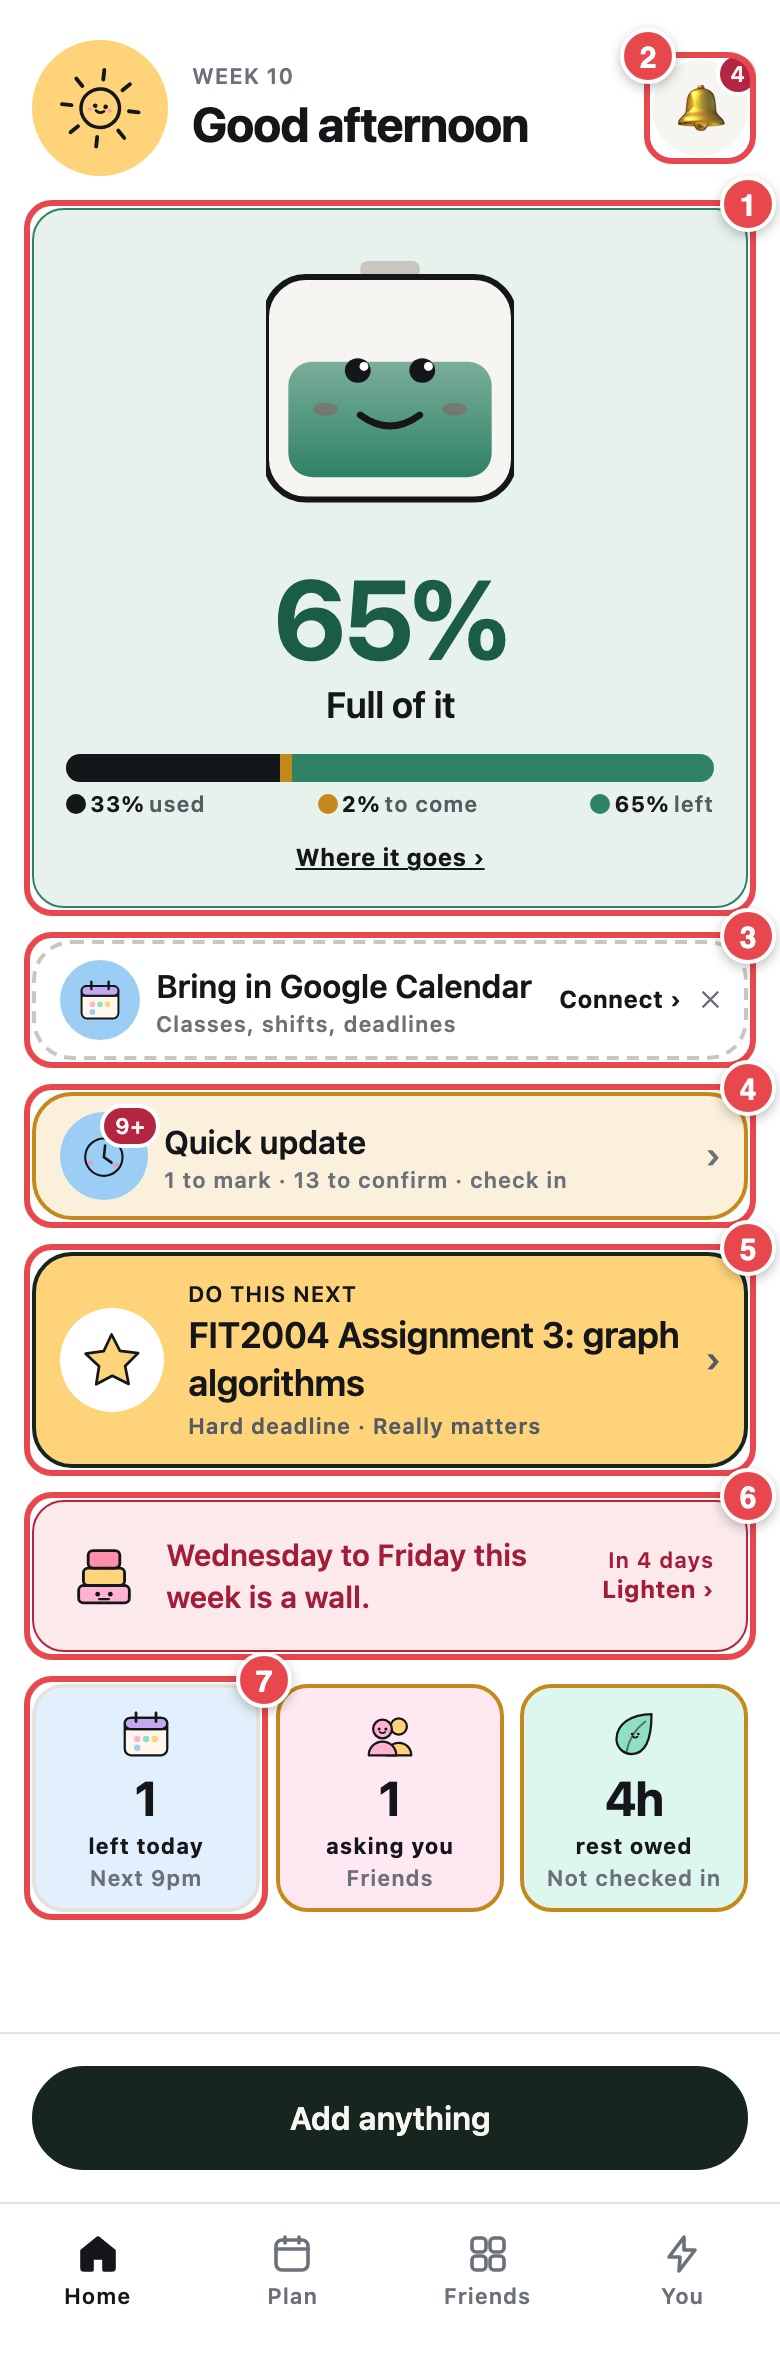
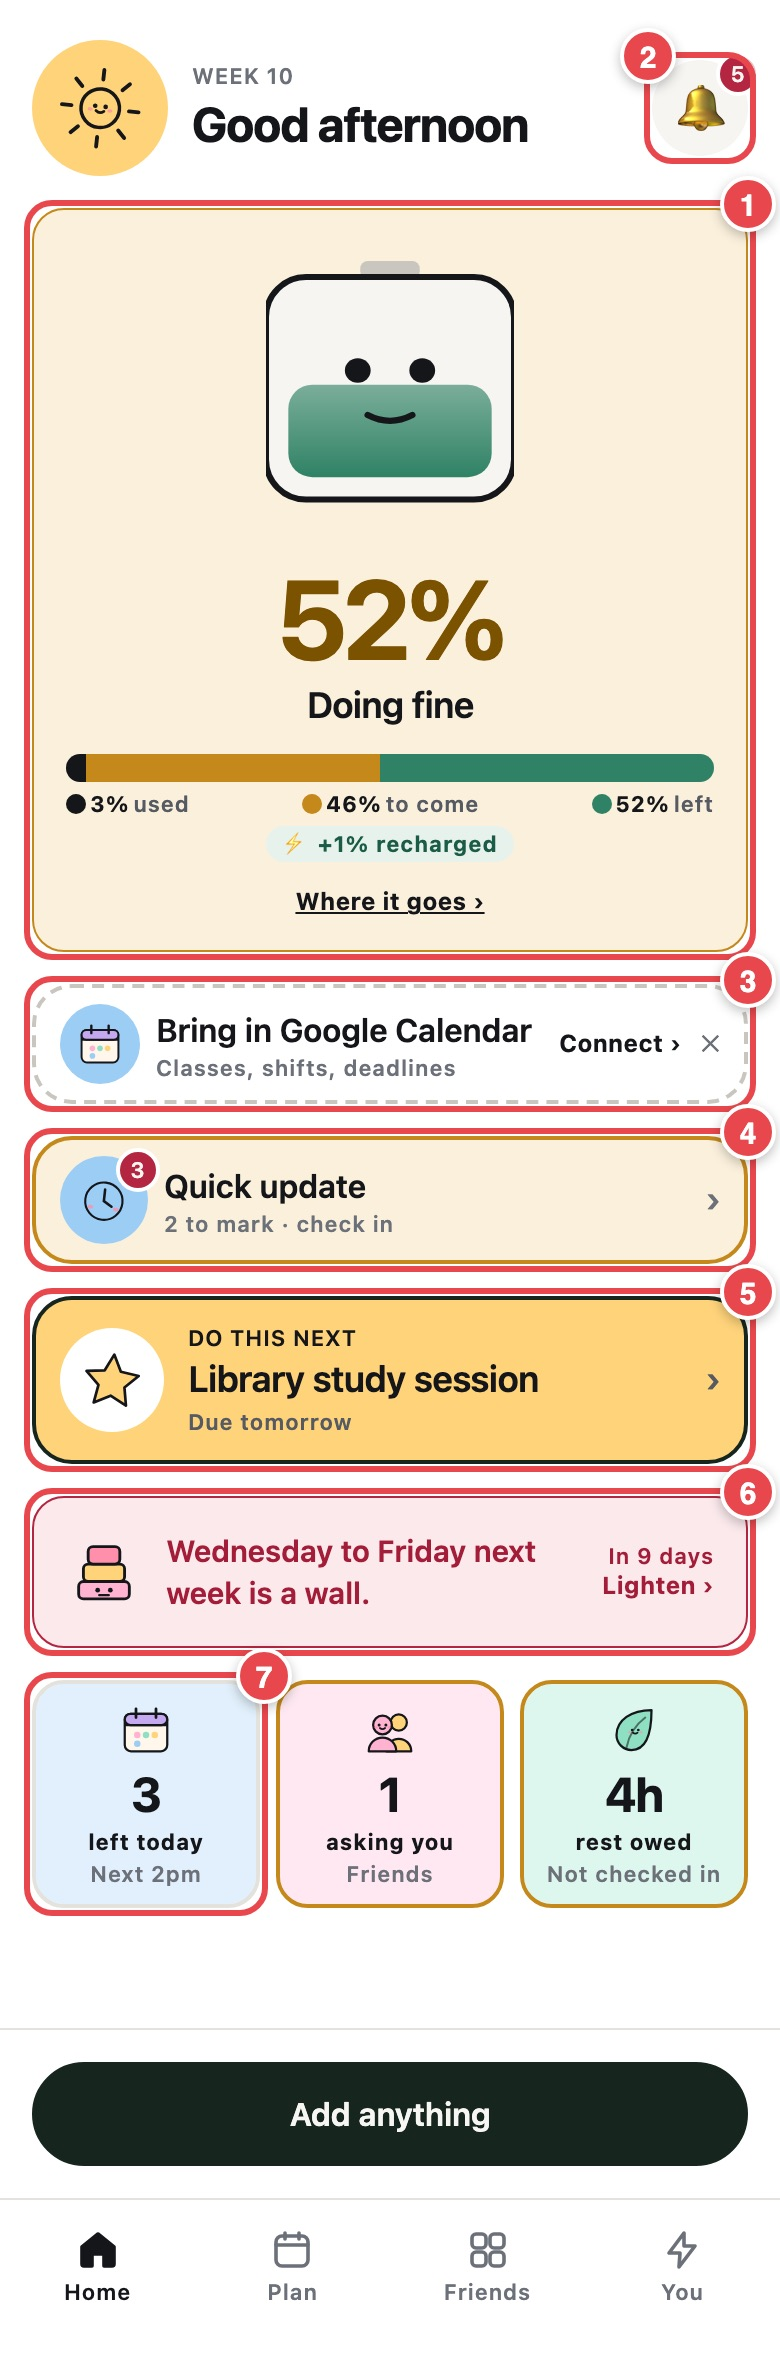
Build Phase V13

diff --git a/ballast/src/lib/notify.ts b/ballast/src/lib/notify.ts
@@ -17,7 +17,7 @@ import { remaining } from './prep';
 import { findCollision, leadLabel } from './forecast';
 import { worthANudge } from './circle';
 import { firstName } from './people';
-import type { CircleMember, GroupInvite, Item, MoodCheckIn, Notice, ReceivedInvite } from './types';
+import type { CircleMember, GroupInvite, Invite, Item, MoodCheckIn, Notice, ReceivedInvite } from './types';
 import { formatHour } from './schedule';
 import type { PendingRequestDTO } from '@shared/contract';
 
@@ -39,7 +39,7 @@ export function quickUpdate(state: { items: Item[]; today: string; moods: MoodCh
   return { toMark: due, auto, checkIn: !checkedIn, count: due.length + auto.length + (checkedIn ? 0 : 1) };
 }
 
-export type BellKind = 'friend' | 'group' | 'plan' | 'update' | 'calendar' | 'due' | 'wall' | 'nudge' | 'rest' | 'low' | 'event';
+export type BellKind = 'friend' | 'group' | 'plan' | 'ready' | 'update' | 'calendar' | 'due' | 'wall' | 'nudge' | 'rest' | 'low' | 'event';
 
 export interface Bell {
   id: string;
@@ -60,6 +60,8 @@ export interface BellState {
   requests: PendingRequestDTO[];
   groupInvites: GroupInvite[];
   received: ReceivedInvite[];
+  /** Plans you sent. */
+  invites?: Invite[];
   circle: CircleMember[];
   notices: Notice[];
   restOwed: number;
@@ -84,6 +86,20 @@ export function bells(state: BellState): Bell[] {
     out.push({
       id: `plan:${plan.id}`, kind: 'plan', emoji: '🎉', title: `${plan.from} invited you to ${plan.title.split(/ with | · /)[0]}`,
       body: `${formatShort(plan.date)} · ${formatHour(plan.startHour)}`, ref: plan.id, at: plan.at, to: '/plans',
+    });
+  }
+
+  // A plan you sent that everyone has answered, someone is coming to, and is
+  // not in your week yet. Read from the plan itself, so it is still here when
+  // the answers came in while the app was closed.
+  for (const plan of (state.invites ?? []).filter((i) => !i.scheduled && i.date >= today)) {
+    const answers = plan.answers ?? {};
+    const yes = plan.people.filter((id) => answers[id] === 'yes').length;
+    if (!yes || plan.people.some((id) => !answers[id])) continue;
+    out.push({
+      id: `ready:${plan.id}:${yes}`, kind: 'ready', emoji: '🎉',
+      title: `${yes === plan.people.length ? 'Everyone’s in' : `${yes} of ${plan.people.length} in`} for ${plan.title.split(/ with | · /)[0]}`,
+      body: `${formatShort(plan.date)} · ${formatHour(plan.startHour)} · Add it to your week`, to: '/plans?tab=confirmed',
     });
   }
 

diff --git a/ballast/scripts/seed-judges.ts b/ballast/scripts/seed-judges.ts
@@ -17,7 +17,7 @@
  */
 import { readFileSync } from 'node:fs';
 import { join } from 'node:path';
-import { addDays, isSameWeek, startOfWeek } from '@/lib/dates';
+import { addDays, dayIndex, isSameWeek, startOfWeek } from '@/lib/dates';
 import { classItems, type ClassSlot } from '@/lib/timetable';
 import { bandFor, DEFAULT_CEILINGS, DEFAULT_OVERALL_CEILING, overallOf } from '@/lib/load';
 import { countedOnce } from '@/lib/prep';
@@ -316,8 +316,14 @@ function weekOf(p: Persona): { items: Item[]; modules: Module[]; moods: MoodChec
   // Every day lived in: a few of the ordinary things around the classes, and
   // study sessions booked for each piece of work - how a planned week looks.
   const days = Array.from({ length: 28 }, (_, i) => addDays(W0, i));
-  items.push(...fillDays(items, days, p.key));
-  items.push(...bookSittings(items, TODAY, now.getHours() + now.getMinutes() / 60, p.key));
+  // Tuesday and Thursday evenings stay clear of the filler and the study
+  // sessions, for everyone - so friends planning together find real evenings
+  // when they are all free, the way a group of friends would keep one.
+  const kept = days.filter((d) => dayIndex(d) === 1 || dayIndex(d) === 3).map((d) => ({
+    id: `hold-${d}`, title: 'Evening kept free', bucket: 'time', hours: 3.5, dread: 1, commitment: 'self', date: d, startHour: 19,
+  }) as Item);
+  items.push(...fillDays([...items, ...kept], days, p.key));
+  items.push(...bookSittings([...items, ...kept], TODAY, now.getHours() + now.getMinutes() / 60, p.key));
   const moods: MoodCheckIn[] = p.moods.map((m, i) => ({
     id: `${p.key}-mood-${i}`, date: addDays(TODAY, -m.daysAgo), at: `${m.daysAgo === 1 ? 'Yesterday' : `${m.daysAgo} days ago`} 9:00 PM`,
     quadrant: m.quadrant, tags: m.tags,

diff --git a/ballast/app/_layout.tsx b/ballast/app/_layout.tsx
@@ -12,6 +12,8 @@ import { Platform, View } from 'react-native';
 import AsyncStorage from '@react-native-async-storage/async-storage';
 import { keepTokenIn } from '@/lib/api';
 import { Mascot } from '@/components';
+import { useHydrated } from '@/hooks/useHydrated';
+import { isClient } from '@/state/storage';
 
 /**
  * Root layout.
@@ -43,6 +45,15 @@ export default function RootLayout() {
   usePopups();
   useCalendarSync();
   const waiting = useWaitingForSession();
+  /*
+   * Every page is prerendered from the sample week, because the build has no
+   * account to render. Until this device's own state is read back, the
+   * battery covers it - otherwise the first thing anyone opening the app saw
+   * was a stranger's Monday, for the moment before their own week (or the
+   * sign-in screen) replaced it.
+   */
+  const hydrated = useHydrated();
+  const cover = !isClient || !hydrated || waiting;
 
   return (
     <SafeAreaProvider>
@@ -57,8 +68,8 @@ export default function RootLayout() {
       >
         <Stack.Screen name="(tabs)" options={{ animation: 'default' }} />
       </Stack>
-      {/* Coming back signed in: a moment with the battery while the session is confirmed. */}
-      {waiting ? (
+      {/* Opening, or coming back signed in: a moment with the battery while your own state loads. */}
+      {cover ? (
         <View className="absolute inset-0 items-center justify-center bg-page">
           <Mascot charge={72} loadPercent={28} size={120} />
         </View>

diff --git a/ballast/src/features/notify/useBells.ts b/ballast/src/features/notify/useBells.ts
@@ -9,15 +9,15 @@ import { useItemsWithLogs, useReading } from '@/state/selectors';
 import { useCalendar } from '@/features/calendar/useCalendar';
 
 export function useBells() {
-  const { items, today, moods, sleepHours, requests, groupInvites, received, circle, notices, recovery, seenNotices } = useStore();
+  const { items, today, moods, sleepHours, requests, groupInvites, received, invites, circle, notices, recovery, seenNotices } = useStore();
   const withLogs = useItemsWithLogs();
   const reading = useReading();
   const { picture, expired } = useCalendar();
   const fresh = picture.fresh.length;
   const update = useMemo(() => quickUpdate({ items, today, moods, sleepHours }), [items, today, moods, sleepHours]);
   const list = useMemo(() => bells({
-    items: withLogs, today, requests, groupInvites, received, circle, notices,
+    items: withLogs, today, requests, groupInvites, received, invites, circle, notices,
     restOwed: restOwedFrom(recovery), charge: reading.charge, update, calendar: { fresh, expired },
-  }), [withLogs, today, requests, groupInvites, received, circle, notices, recovery, reading.charge, update, fresh, expired]);
+  }), [withLogs, today, requests, groupInvites, received, invites, circle, notices, recovery, reading.charge, update, fresh, expired]);
   return { list, update, unseen: unseen(list, seenNotices), calendar: picture };
 }

diff --git a/ballast/src/lib/priority.ts b/ballast/src/lib/priority.ts
@@ -74,6 +74,9 @@ const IMPORTANCE_FACTOR = { 1: 0.8, 2: 1, 3: 1.35 } as const;
  */
 const WANT_FACTOR = [1, 0.9, 0.95, 1, 1.08, 1.15] as const;
 
+/** How much a self-imposed routine counts against real work. */
+const ROUTINE_FACTOR = 0.2;
+
 /** Not being able to finish it in the time left is the loudest signal there is. */
 const AT_RISK_BONUS = 40;
 
@@ -108,6 +111,10 @@ export function rank(
    */
   const score =
     weight *
+      // A routine of your own - the gym, breakfast, tidying - happens at its
+      // time; it is not something to start first. Only work, deadlines and
+      // promises to other people should be able to top this list.
+      (!owing && item.commitment === 'self' && item.deadline === undefined ? ROUTINE_FACTOR : 1) *
       urgencyFactor(days) ** weights.urgency *
       COMMITMENT_FACTOR[item.commitment] *
       IMPORTANCE_FACTOR[item.importance ?? 2] ** weights.importance *

diff --git a/ballast/src/features/home/CalmMode.tsx b/ballast/src/features/home/CalmMode.tsx
@@ -20,7 +20,7 @@ export interface CalmModeProps {
   percent: number;
   today: string;
   /** The one thing. The app has already made the call so the student does not have to. */
-  focus: Item;
+  focus?: Item;
   onHide: () => void;
   onShowEverything: () => void;
   /**
@@ -61,7 +61,7 @@ export function CalmMode({ percent, today, focus, onHide, onShowEverything, back
 
         {/* One sentence. Not a list, not a chart, not a prompt to log anything. */}
         <Text variant="heading" weight="regular" className="pt-4">
-          Do the {focus.title.toLowerCase()}. Everything else on today's list can wait until Friday and
+          {focus ? `Do the ${focus.title.toLowerCase()}. ` : 'Rest tonight. '}Everything else on today's list can wait until Friday and
           nothing bad will happen.
         </Text>
       </Stack>

diff --git a/ballast/app/notifications.tsx b/ballast/app/notifications.tsx
@@ -120,6 +120,7 @@ const PICTURE: Record<Bell['kind'], { sticker: StickerName; wash: string }> = {
   friend:   { sticker: 'wave',       wash: color.decor.candy },
   group:    { sticker: 'people',     wash: color.decor.lilac },
   plan:     { sticker: 'heart',      wash: color.decor.blush },
+  ready:    { sticker: 'star',       wash: color.band.steady.wash },
   update:   { sticker: 'clock',      wash: color.decor.sky },
   calendar: { sticker: 'calendar',   wash: color.decor.sky },
   due:      { sticker: 'assignment', wash: color.decor.lemon },

diff --git a/README.md b/README.md
@@ -32,17 +32,19 @@ Ballast installs straight from the link. It gets a home-screen icon and opens fu
 
 ## 🔑 Judge accounts
 
-Five real accounts on the live app. They're Monash Malaysia students with a real timetable, coursework, shifts, moods and plans, and **they're all friends with each other**. Sign in as two of them on two phones (or a phone and a laptop), and invitations, answers and batteries pass between them within a minute.
+Five real accounts on the live app. They're Monash Malaysia students with a real timetable, coursework, shifts, moods and plans, and every day is planned: study sessions booked for each assignment, plus lunches, the gym, society meetings and downtime. **They're all friends with each other.** Sign in as two of them on two phones (or a phone and a laptop), and invitations, answers and batteries pass between them within a minute.
+
+*Battery numbers below are from Mon 12 Oct. They move as the week goes, just as a real week would.*
 
 **Password for all five: `BallastDemo2026`**
 
 | Student | Email | Their week | Try this as them |
 |---|---|---|---|
-| 💻 **Aisyah Rahman**<br>Computer Science, Y2 | `aisyah.ballast@example.com` | 65% this week, but **next week is a wall**: two assignments and a birthday dinner in 3 days | Tap the red **wall** warning, then **Lighten next week**. Answer Daniel's **Mamak supper** invite. Add the confirmed **Study session** to your week. |
-| 🧪 **Priya Nair**<br>Biomedical Science, Y2 | `priya.ballast@example.com` | **28%, running on empty**: lab report due, 5.8h of sleep, heavy for 6 days | **Check in**, then open **Recovery** to book something that helps. Her friends get a nudge to check on her. |
-| 📊 **Daniel Lim**<br>Business, Y3 | `daniel.ballast@example.com` | 84%, steady, barista shifts | Open **Plans → Sent**: see who has said yes to his Mamak supper. Plan an evening with **Plan something together**. |
-| 🏗 **Hafiz Ismail**<br>Civil Engineering, Y3 | `hafiz.ballast@example.com` | 61%, design project crunch | His **birthday dinner** plan has every kind of answer: yes, no, and still waiting. |
-| 🎨 **Mei Ling Tan**<br>Communication Design, Y1 | `meiling.ballast@example.com` | 91%, the calm one | Answer the **Badminton club** group invitation and Priya's **Movie night** from the 🔔 bell. |
+| 💻 **Aisyah Rahman**<br>Computer Science, Y2 | `aisyah.ballast@example.com` | 52% this week, but **next week is a wall**: two assignments and a birthday dinner, Wednesday to Friday | Tap the red **wall** warning, then **Lighten next week**. Answer Daniel's **Mamak supper** invite. Add the confirmed **Study session** to your week. |
+| 🧪 **Priya Nair**<br>Biomedical Science, Y2 | `priya.ballast@example.com` | **29%, running on empty**: lab report due, 5.8h of sleep, heavy for 6 days | **Check in**, then open **Recovery** to book something that helps. Her friends get a nudge to check on her. |
+| 📊 **Daniel Lim**<br>Business, Y3 | `daniel.ballast@example.com` | 75%, steady, barista shifts | Open **Plans → Sent**: see who has said yes to his Mamak supper. **Plan something** with Mei Ling: Thursday evening lights up green. |
+| 🏗 **Hafiz Ismail**<br>Civil Engineering, Y3 | `hafiz.ballast@example.com` | 46%, design project crunch | His **birthday dinner** plan has every kind of answer: yes, no, and still waiting. |
+| 🎨 **Mei Ling Tan**<br>Communication Design, Y1 | `meiling.ballast@example.com` | 83%, the calm one | Answer the **Badminton club** group invitation and Priya's **Movie night** from the 🔔 bell. |
 
 > [!WARNING]
 > **These accounts are shared by every judge. Please play, but don't wreck them.**
@@ -60,7 +62,7 @@ Want a blank slate instead? **Create your own account** on the same link and go 
 2. Tap the red **"…is a wall"** card, then **Lighten next week**. Take things off one at a time; for anything involving someone else, it offers to write the message first.
 3. Open **Plan** and tap a day: see the hours, and the battery each block costs.
 4. Go to **Friends** and tap **Priya** (28%). Her week is heavy, her free evenings are shared, and **Text something** writes the message for you.
-5. **Plan something together**: pick two friends and an activity. **Green blocks** are the times everyone is free.
+5. **Plan something together**: pick **Daniel** and **Mei Ling**, then **Dinner**. The **green block** (Thursday, 7pm) is when all three of you are free.
 6. Tap the 🔔 **bell** and answer an invitation right there.
 
 ---
@@ -151,12 +153,12 @@ Want a blank slate instead? **Create your own account** on the same link and go 
 <td width="300"><img src="docs/guide/03-update.jpg" width="280" alt="Quick update"></td>
 <td>
 
-1. **To mark**: a class or task whose time has just passed. ✓ or ✕, one tap.
-2. **Marked for you**: forgot? The next morning Ballast assumes it happened, and lets you check.
-3. **Keep**, **Missed** or **Change** each one…
-4. …or **Keep all** in one tap.
+1. **To mark**: everything whose time has just passed.
+2. **✓ or ✕**, one tap each. Classes count towards attendance, and done work moves the progress bars forward.
+3. **How today feels**: check in right here, and each answer shows what it does to your battery.
+4. **Sleep**: short nights cost, good ones refill.
 
-*Classes count towards attendance, and done work moves the progress bars forward.*
+*Forgot to mark something? The next morning Ballast assumes it happened, and shows it under **Marked for you** to keep or change.*
 
 </td>
 </tr>
@@ -167,7 +169,7 @@ Want a blank slate instead? **Create your own account** on the same link and go 
 1. **Pop-ups**: opt in, and Ballast nudges you when a class ends while the app is open in the background.
 2. **Invitations** from friends and groups…
 3. …answered **right here**.
-4. Everything else worth knowing: things to update, deadlines, a friend having a hard week. Each one opens where you deal with it.
+4. Everything else worth knowing: who said yes to your plan, a plan that's ready for your week, a plan that was called off, deadlines, a friend having a hard week. Each one opens where you deal with it.
 
 </td>
 </tr>
@@ -196,7 +198,8 @@ Want a blank slate instead? **Create your own account** on the same link and go 
 
 1. Its area, its **battery cost**, and whether it can move. Hard deadlines are **locked**.
 2. **Progress**: done, booked into your week, and still loose.
-3. **✨ Suggest sittings** splits the remaining hours into sessions on your lightest days.
+3. **Booked sittings.** When one ends, tap **How much? ✓** to say how far you got.
+4. **Plan, move or add sittings.** With hours still loose, **✨ Suggest** splits them onto your lightest days.
 
 </td>
 </tr>
@@ -207,9 +210,10 @@ Want a blank slate instead? **Create your own account** on the same link and go 
 **Booking the sittings**
 
 1. One bar shows **done · booked · loose**.
-2. **Suggested**: lightest days first, and never on the due day if it can help it. Each one says why.
-3. **Change** any day, time or length, using days from this week or next.
-4. **Book** puts them in your week, and nothing is booked unseen.
+2. **Booked**: every sitting, with its battery cost.
+3. **⋯** to move one (any day this week or next) or give it back. **Push today's to tomorrow** when today falls apart.
+
+*With hours still loose, **✨ Suggest** proposes sittings on your lightest days, each with its reason, and nothing is booked until you say so.*
 
 </td>
 </tr>
@@ -231,10 +235,10 @@ Want a blank slate instead? **Create your own account** on the same link and go 
 
 **What to do first**
 
-1. **Start here**: due date, hours needed, and what it costs.
+1. **Start here**: due date, hours needed, and what it costs. Work and promises come first; your own routines (the gym, breakfast) never jump the queue.
 2. **Why it's first**, in plain reasons.
-3. **When it fits**: the next real gap in your day.
-4. **Plan the sittings** in one tap.
+3. **When it happens**: already booked, or the next real gap in your day.
+4. **Your next 7 days**: how many hours the list needs against the free time you have.
 
 </td>
 </tr>
@@ -324,7 +328,7 @@ Want a blank slate instead? **Create your own account** on the same link and go 
 1. **Received · Sent · Confirmed**.
 2. Who's asking, and who else is going (✓ or ✕ on their faces).
 3. **How full that day already is**, before you say yes.
-4. **Accept**, **Decline**, or **See** that day.
+4. **Accept**, **Decline**, or **See** that day. **Accept** puts it in your week on every device you use. If the host moves it, it moves; if they call it off, it leaves and you're told.
 
 </td>
 </tr>
@@ -334,8 +338,8 @@ Want a blank slate instead? **Create your own account** on the same link and go 
 
 **Confirmed**
 
-1. 🎉 **Everyone's in.**
-2. **Add to week**, available only once *everyone* has said yes.
+1. 🎉 **Everyone's in**: every plan you're going to, yours and the ones you said yes to.
+2. **Add to week** once everyone has answered. If someone can't make it, **Go ahead with 2** keeps the plan with whoever's coming.
 
 </td>
 </tr>
